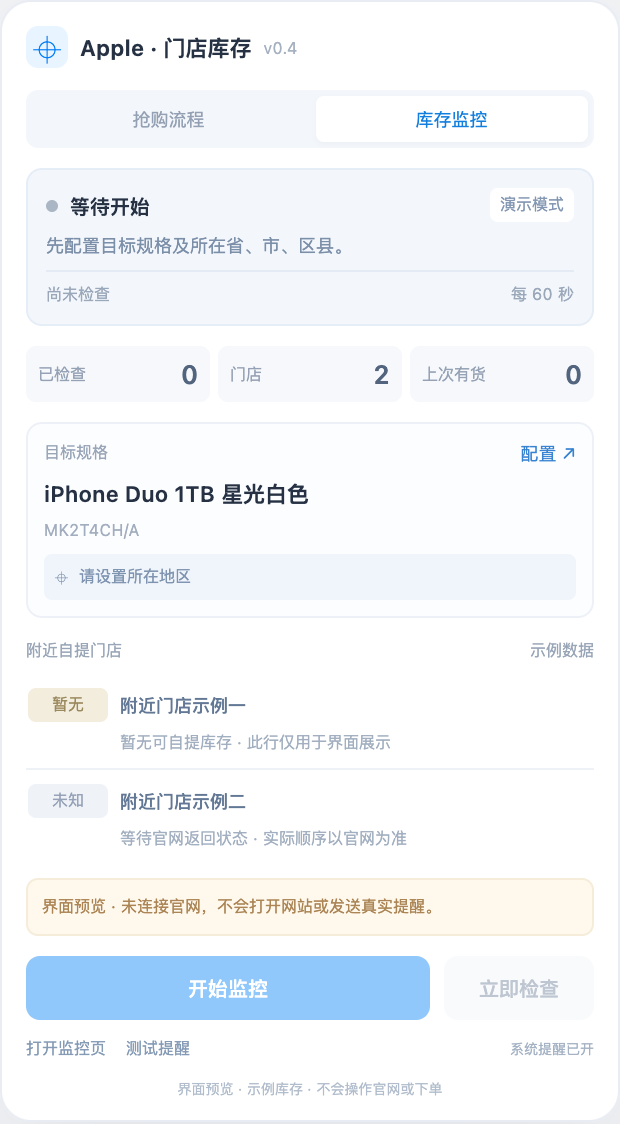
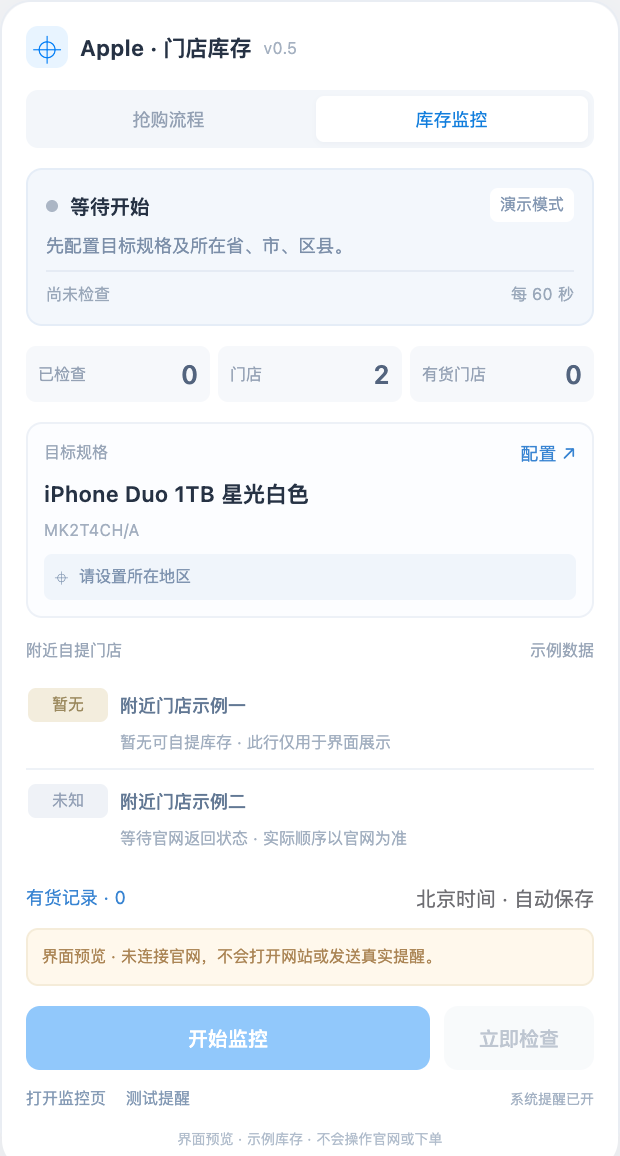
Save observed pickup stock arrival times with history and CSV export

diff --git a/server/public/style.css b/server/public/style.css
@@ -1,1 +1,8 @@
 :root{font-family:-apple-system,BlinkMacSystemFont,"Segoe UI","PingFang SC","Microsoft YaHei",sans-serif;font-size:13px;color:#263244;background:#f2f5f9;color-scheme:light;font-synthesis:none}*{box-sizing:border-box}body{margin:0;padding:24px 12px;min-width:280px}button,input,select{font:inherit}button{cursor:pointer}button:disabled{opacity:.45;cursor:default}button:focus-visible,input:focus-visible,select:focus-visible{outline:3px solid #95c9ff;outline-offset:2px}[hidden]{display:none!important}.shell{width:min(100%,380px);margin:auto;background:#fff;border:1px solid #e8edf5;border-radius:16px;padding:17px 16px 13px;box-shadow:0 12px 45px #233a5a0b}header,.brand,.status-line,.section-top,.next-line,.actions,.location-line,.push-status{display:flex;align-items:center}header,.section-top{justify-content:space-between}.brand{gap:7px}.brand strong{font-size:12px;font-weight:650}.brand-icon{display:grid;place-items:center;width:24px;height:24px;border-radius:7px;background:#e8f4ff;color:#0780f6;font-size:19px}.server-tag{padding:3px 5px;border-radius:4px;background:#f4f7fb;color:#9aabc0;font-size:8px}.text-button{border:0;background:none;padding:0;color:#3884d2;font-size:10px}.loading{color:#8da0b8;font-size:11px;text-align:center;padding:60px 10px}.login-heading{margin-top:31px}.eyebrow{font-size:8px;letter-spacing:1px;color:#97a9be}.login-heading h1{font-size:21px;font-weight:600;margin:9px 0}.login-heading p{font-size:11px;line-height:1.8;color:#8b9db3;margin:0 0 25px}.login-note{font-size:10px;line-height:1.9;color:#a6b3c4;margin:22px 0 8px}.status-card{margin-top:17px;padding:11px;border:1px solid #e5edf7;background:#f3f7fc;border-radius:9px}.status-line{gap:7px;font-size:11px}.status-dot{display:inline-block;width:6px;height:6px;flex-shrink:0;border-radius:50%;background:#abb6c5}.status-dot.running{background:#27ac72}.status-dot.available{background:#19a56d;box-shadow:0 0 0 3px #d9f0e4}.status-dot.paused{background:#d29b4e}.tag{margin-left:auto;padding:3px 5px;border-radius:4px;background:#fff;font-size:8px;color:#8397b2}.status-card p{font-size:10px;line-height:1.8;color:#7c8fa9;margin:6px 0;overflow-wrap:anywhere}.next-line{justify-content:space-between;gap:6px;padding-top:8px;border-top:1px solid #e5ebf4;color:#9aa8ba;font-size:9px}.metrics{display:grid;grid-template-columns:repeat(3,1fr);gap:5px;margin:12px 0}.metrics div{display:flex;align-items:center;gap:4px;background:#f6f8fb;padding:8px;border-radius:6px;font-size:9px;color:#95a2b5}.metrics strong{margin-left:auto;font-size:15px;color:#53647e;font-weight:600;font-variant-numeric:tabular-nums}.product{padding:10px;border:1px solid #edf1f7;border-radius:9px;background:#fcfdff}.section-top{font-size:9px;color:#99a6b8;margin-bottom:8px;gap:6px}.product h1{font-size:12px;font-weight:600;line-height:1.6;margin:0 0 4px;overflow-wrap:anywhere}.product p{font-size:9px;color:#a2aebf;margin:0}.location-line{gap:6px;color:#7f94b0;background:#f0f5fb;border-radius:4px;font-size:9px;line-height:1.8;padding:5px 6px;margin-top:8px;overflow-wrap:anywhere}.stores-section{margin-top:15px}#stores{list-style:none;padding:0;margin:0;max-height:300px;overflow-y:auto;scrollbar-width:thin}.store{padding:9px 1px;border-bottom:1px solid #eef2f7}.store:last-child{border-bottom:0}.store-top{display:flex;align-items:center;gap:7px}.availability{flex-shrink:0;font-size:9px;min-width:43px;text-align:center;color:#9b895e;background:#f3eddd;padding:3px 4px;border-radius:4px}.availability.available{background:#e5f4ec;color:#239769}.availability.unknown{background:#eff2f7;color:#95a2b7}.store-name{font-size:10px;color:#627894;font-weight:500;overflow-wrap:anywhere}.distance{margin-left:auto;font-size:9px;color:#a6b2c3;flex-shrink:0}.store-detail{font-size:9px;line-height:1.6;color:#a2afc0;margin:4px 0 0 50px;overflow-wrap:anywhere}.stale .store-name,.stale .availability{opacity:.65}.empty-stores{font-size:10px;color:#a9b4c3;text-align:center;line-height:1.9;padding:23px 10px;margin:0}.notice{font-size:9px;line-height:1.8;background:#fff8ec;border:1px solid #f5ecd9;border-radius:7px;color:#ab8555;padding:8px;margin-top:10px;overflow-wrap:anywhere}.actions{gap:8px;margin-top:13px}.button{border:0;border-radius:8px;padding:10px 13px;font-size:11px;font-weight:500}.primary{background:#0a84f7;color:#fff;flex:1}.primary:hover{background:#0074df}.secondary{background:#f0f3f7;color:#6f8199;min-width:86px}.push-status{gap:6px;margin-top:12px;color:#92a5bc;font-size:9px}.server-running{margin-left:auto;color:#b0bdcd;font-size:8px}.fineprint{font-size:8px;color:#b1bdcc;text-align:center;margin:12px 0 0;line-height:1.7}.server-note{margin-top:3px}dialog{position:fixed;inset:0;width:min(calc(100% - 24px),380px);height:fit-content;max-width:none;max-height:calc(100vh - 40px);border:1px solid #e8edf5;border-radius:14px;background:#fff;margin:auto;padding:20px 17px;overflow:auto;box-shadow:0 15px 65px #233a5a24}dialog::backdrop{background:#edf2f8dd}.dialog-heading{display:flex;justify-content:space-between;align-items:flex-start;margin-bottom:17px}.icon-button{border:0;width:24px;height:24px;border-radius:6px;background:#f4f6f9;color:#95a0af;font-size:18px;line-height:18px}h2{font-size:19px;font-weight:600;margin:7px 0 0}label{display:block;font-size:10px;color:#7185a0;margin-top:13px}input,select{display:block;width:100%;min-width:0;border:1px solid #e1e8f1;border-radius:7px;background:#fbfcfe;color:#3c506d;padding:9px;font-size:11px;margin-top:6px}input::placeholder{font-size:10px;color:#acbacb}.field-help{font-size:9px;color:#9ba9bd;line-height:1.8;margin:7px 0}.form-row{display:flex;gap:10px}.form-row label{width:50%}.checkbox{display:flex;gap:7px;align-items:flex-start;line-height:1.9}.checkbox input{width:14px;flex-shrink:0;margin:3px 0 0;accent-color:#0a84f7}.settings-note{padding:10px;background:#f3f7fc;border-radius:8px;font-size:9px;line-height:1.9;color:#8a9db5;margin-top:15px}.form-error{font-size:10px;color:#b56450;line-height:1.8}.wide{width:100%;margin-top:13px}@media(max-width:360px){body{padding:12px 8px}.shell{padding:14px 12px}.brand{gap:5px}.brand strong{font-size:11px}.server-tag{font-size:7px}.tag{font-size:7px}.metrics div{padding:7px;font-size:8px}}
+
+.history-entry{display:flex;align-items:center;justify-content:space-between;gap:8px;margin:10px 0 8px;font-size:10px;color:#6e6e73}
+#stock-history{width:calc(100% - 24px);max-width:430px;max-height:90vh;box-sizing:border-box;overflow:auto}
+.history-toolbar{display:flex;align-items:end;justify-content:space-between;gap:12px}.history-toolbar label{flex:1;margin:0}.history-toolbar button{flex-shrink:0;margin-bottom:9px}
+#history-hours{display:flex;flex-wrap:wrap;gap:5px}.hour-chip{font-size:11px;padding:5px 7px;background:#eaf3ff;color:#0068d1;border-radius:6px}
+#history-list{list-style:none;padding:0;margin:12px 0;max-height:310px;overflow:auto}#history-list li{padding:10px 0;border-bottom:1px solid #e5e5ea}#history-list strong{display:block;font-size:13px;margin:4px 0}
+.arrival-time{font-size:13px;font-variant-numeric:tabular-nums;font-weight:600;color:#087c49}.arrival-detail,.arrival-kind{margin:4px 0;font-size:11px;line-height:1.5;overflow-wrap:anywhere}.arrival-detail{color:#6e6e73}.arrival-kind{color:#087c49}

diff --git a/monitor.css b/monitor.css
@@ -1,1 +1,8 @@
 :root{font-family:-apple-system,BlinkMacSystemFont,"Segoe UI","PingFang SC","Microsoft YaHei",sans-serif;font-size:12px;color:#263244;background:#fff;color-scheme:light;font-synthesis:none}*{box-sizing:border-box}body{margin:0;width:310px;max-height:578px;overflow-y:auto}button,input,select{font:inherit}button{cursor:pointer}button:disabled{opacity:.45;cursor:default}button:focus-visible,a:focus-visible,input:focus-visible,select:focus-visible{outline:3px solid #95c9ff;outline-offset:2px}[hidden]{display:none!important}.panel{padding:12px 12px 9px;background:#fff}header,.brand,.status-line,.section-top,.next-line,.actions,.footer-links,.location-line{display:flex;align-items:center}header,.section-top{justify-content:space-between}.brand{gap:6px}.brand strong{font-size:11px;font-weight:650}.brand small{font-size:8px;color:#a5b1c1}.brand-icon{display:grid;place-items:center;width:21px;height:21px;border-radius:6px;background:#e8f4ff;color:#0780f6;font-size:17px}.icon-button{border:0;width:21px;height:21px;border-radius:6px;background:#f4f6f9;color:#95a0af;font-size:16px;line-height:18px}nav{display:flex;gap:5px;padding:3px;background:#f3f6fa;border-radius:6px;margin-top:11px}nav a,nav span{flex:1;text-align:center;text-decoration:none;padding:5px;font-size:9px;color:#94a1b4;border-radius:4px}nav .selected{background:#fff;box-shadow:0 1px 3px #34496a0a;color:#127edd}.status-card{margin-top:10px;padding:9px;border:1px solid #e5edf7;background:#f3f7fc;border-radius:8px}.status-line{gap:6px;font-size:10px}.status-dot{width:6px;height:6px;border-radius:50%;background:#abb6c5}.status-dot.running{background:#27ac72}.status-dot.available{background:#19a56d;box-shadow:0 0 0 3px #d9f0e4}.status-dot.paused{background:#d29b4e}.tag{margin-left:auto;padding:3px 5px;border-radius:4px;background:#fff;font-size:8px;color:#8397b2}.status-card p{font-size:9px;line-height:1.6;color:#7c8fa9;margin:5px 0;overflow-wrap:anywhere}.next-line{justify-content:space-between;gap:6px;padding-top:6px;border-top:1px solid #e5ebf4;color:#9aa8ba;font-size:8px}.metrics{display:grid;grid-template-columns:repeat(3,1fr);gap:4px;margin:10px 0}.metrics div{display:flex;align-items:center;gap:4px;background:#f6f8fb;padding:6px;border-radius:5px;font-size:8px;color:#95a2b5}.metrics strong{margin-left:auto;font-size:13px;color:#53647e;font-weight:600;font-variant-numeric:tabular-nums}.product{padding:8px;border:1px solid #edf1f7;border-radius:8px;background:#fcfdff}.section-top{font-size:8px;color:#99a6b8;margin-bottom:6px;gap:6px}.text-button{border:0;background:none;padding:0;color:#3884d2;font-size:9px}.product h1{font-size:11px;font-weight:600;line-height:1.5;margin:0 0 4px;overflow-wrap:anywhere}.product p{font-size:8px;color:#a2aebf;margin:0}.location-line{gap:5px;color:#7f94b0;background:#f0f5fb;border-radius:4px;font-size:8px;line-height:1.6;padding:5px;margin-top:7px;overflow-wrap:anywhere}.stores-section{margin-top:11px}#stores{list-style:none;padding:0;margin:0;max-height:171px;overflow-y:auto;scrollbar-width:thin}.store{padding:7px 1px;border-bottom:1px solid #eef2f7}.store:last-child{border-bottom:0}.store-top{display:flex;align-items:center;gap:6px}.availability{flex-shrink:0;font-size:8px;min-width:40px;text-align:center;color:#9b895e;background:#f3eddd;padding:3px 4px;border-radius:4px}.availability.available{background:#e5f4ec;color:#239769}.availability.unknown{background:#eff2f7;color:#95a2b7}.store-name{font-size:9px;color:#627894;font-weight:500;overflow-wrap:anywhere}.distance{margin-left:auto;font-size:8px;color:#a6b2c3;flex-shrink:0}.store-detail{font-size:8px;line-height:1.5;color:#a2afc0;margin:4px 0 0 46px;overflow-wrap:anywhere}.stale .store-name,.stale .availability{opacity:.65}.empty-stores{font-size:9px;color:#a9b4c3;text-align:center;line-height:1.8;padding:17px 10px;margin:0}.notice{font-size:8px;line-height:1.7;background:#fff8ec;border:1px solid #f5ecd9;border-radius:6px;color:#ab8555;padding:7px;margin-top:7px;overflow-wrap:anywhere}.actions{gap:7px;margin-top:10px}.button{border:0;border-radius:7px;padding:9px 12px;font-size:10px;font-weight:500}.primary{background:#0a84f7;color:#fff;flex:1}.primary:hover{background:#0074df}.secondary{background:#f0f3f7;color:#6f8199;min-width:75px}.footer-links{gap:10px;margin-top:9px;color:#a4b2c4;font-size:8px}.footer-links button{padding:0;border:0;background:none;color:#849ab5;font-size:8px}.footer-links span{margin-left:auto;font-size:7px}.fineprint{font-size:7px;color:#b1bdcc;text-align:center;margin:9px 0 0;line-height:1.7}dialog{position:fixed;inset:0;width:310px;height:100%;max-width:none;max-height:578px;border:0;background:#fff;margin:0;padding:17px 14px;overflow:auto}dialog::backdrop{background:#fff}.dialog-heading{display:flex;justify-content:space-between;align-items:flex-start;margin-bottom:16px}.eyebrow{font-size:8px;letter-spacing:1px;color:#97a9be}h2{font-size:17px;font-weight:600;margin:6px 0 0}label{display:block;font-size:9px;color:#7185a0;margin-top:11px}input,select{display:block;width:100%;min-width:0;border:1px solid #e1e8f1;border-radius:6px;background:#fbfcfe;color:#3c506d;padding:8px;font-size:10px;margin-top:6px}input::placeholder{font-size:9px;color:#acbacb}.field-help{font-size:8px;color:#9ba9bd;line-height:1.7;margin:6px 0}.form-row{display:flex;gap:9px}.form-row label{width:50%}.checkbox{display:flex;gap:6px;align-items:flex-start;line-height:1.8}.checkbox input{width:13px;flex-shrink:0;margin:2px 0 0;accent-color:#0a84f7}.settings-note{padding:9px;background:#f3f7fc;border-radius:7px;font-size:8px;line-height:1.8;color:#8a9db5;margin-top:14px}.form-error{font-size:9px;color:#b56450;line-height:1.8}.wide{width:100%;margin-top:10px}.preview-mode{background:#f3f4f6;min-height:100%}.preview-mode body{margin:36px auto;width:310px;border:1px solid #e9edf3;border-radius:15px;box-shadow:0 14px 55px #1d335319}.preview-mode .panel{border-radius:15px}.preview-mode dialog{margin:20px auto;max-height:calc(100vh - 40px);height:auto;border-radius:14px}.embedded{width:100%}.embedded dialog{width:100%}
+
+.history-entry{display:flex;align-items:center;justify-content:space-between;gap:8px;margin:10px 0 8px;font-size:10px;color:#6e6e73}
+#stock-history{width:calc(100% - 24px);max-width:430px;max-height:90vh;box-sizing:border-box;overflow:auto}
+.history-toolbar{display:flex;align-items:end;justify-content:space-between;gap:12px}.history-toolbar label{flex:1;margin:0}.history-toolbar button{flex-shrink:0;margin-bottom:9px}
+#history-hours{display:flex;flex-wrap:wrap;gap:5px}.hour-chip{font-size:11px;padding:5px 7px;background:#eaf3ff;color:#0068d1;border-radius:6px}
+#history-list{list-style:none;padding:0;margin:12px 0;max-height:310px;overflow:auto}#history-list li{padding:10px 0;border-bottom:1px solid #e5e5ea}#history-list strong{display:block;font-size:13px;margin:4px 0}
+.arrival-time{font-size:13px;font-variant-numeric:tabular-nums;font-weight:600;color:#087c49}.arrival-detail,.arrival-kind{margin:4px 0;font-size:11px;line-height:1.5;overflow-wrap:anywhere}.arrival-detail{color:#6e6e73}.arrival-kind{color:#087c49}

diff --git a/monitor.html b/monitor.html
@@ -1,14 +1,15 @@
 <!doctype html>
 <html lang="zh-CN">
-<head><meta charset="utf-8"><meta name="viewport" content="width=device-width,initial-scale=1"><title>Apple · 门店库存</title><link rel="stylesheet" href="monitor.css"><script src="monitor.js" defer></script></head>
+<head><meta charset="utf-8"><meta name="viewport" content="width=device-width,initial-scale=1"><title>Apple · 门店库存</title><link rel="stylesheet" href="monitor.css"><script src="stock-history-view.js" defer></script><script src="monitor.js" defer></script></head>
 <body>
   <main class="panel" aria-label="Apple 门店库存监控">
-    <header><div class="brand"><span class="brand-icon" aria-hidden="true">⌖</span><strong>Apple · 门店库存</strong><small>v0.4</small></div><button id="collapse" class="icon-button" title="收起" aria-label="收起面板">−</button></header>
+    <header><div class="brand"><span class="brand-icon" aria-hidden="true">⌖</span><strong>Apple · 门店库存</strong><small>v0.5</small></div><button id="collapse" class="icon-button" title="收起" aria-label="收起面板">−</button></header>
     <nav aria-label="功能切换"><a id="purchase-link" href="panel.html">抢购流程</a><span class="selected" aria-current="page">库存监控</span></nav>
     <section class="status-card" aria-live="polite"><div class="status-line"><span id="status-dot" class="status-dot"></span><strong id="status-title">等待设置</strong><span id="status-tag" class="tag">页面读取</span></div><p id="status-description">填写目标规格与所在地区。</p><div class="next-line"><span id="last-check">尚未检查</span><span id="next-check">每 60 秒</span></div></section>
-    <section class="metrics" aria-label="检查统计"><div><span>已检查</span><strong id="checks">0</strong></div><div><span>门店</span><strong id="store-count">0</strong></div><div><span>上次有货</span><strong id="available-count">0</strong></div></section>
+    <section class="metrics" aria-label="检查统计"><div><span>已检查</span><strong id="checks">0</strong></div><div><span>门店</span><strong id="store-count">0</strong></div><div><span>有货门店</span><strong id="available-count">0</strong></div></section>
     <section class="product"><div class="section-top"><span>目标规格</span><button id="configure" class="text-button">配置 ↗</button></div><h1 id="product-name">iPhone Duo 1TB 星光白色</h1><p id="product-meta">MK2T4CH/A</p><div class="location-line"><span aria-hidden="true">⌖</span><span id="address-summary">请设置所在地区</span></div></section>
     <section class="stores-section" aria-label="附近自提门店"><div class="section-top"><span>附近自提门店</span><span id="freshness">等待首次检查</span></div><ol id="stores"></ol><p id="empty-stores" class="empty-stores">设置后开始监控，显示官网返回的附近门店。</p></section>
+    <div class="history-entry"><button id="show-history" class="text-button" disabled>有货记录 · 0</button><span>北京时间 · 自动保存</span></div>
     <div id="notice" class="notice" role="status" hidden></div>
     <footer><div class="actions"><button id="toggle" class="button primary">开始监控</button><button id="check-now" class="button secondary">立即检查</button></div><div class="footer-links"><button id="open-monitor">打开监控页</button><button id="test-notification">测试提醒</button><span id="notification-label">系统提醒已开</span></div><p id="fineprint" class="fineprint">按官网附近门店顺序展示 · 仅提醒，不加购或下单</p></footer>
   </main>
@@ -24,4 +25,13 @@
     <p class="settings-note">只读取官网页面的自提状态。页面异常或结果过期时显示“未知 / 上次结果”；需要验证码或手动选择地区时会暂停提示。浏览器关闭期间不会检查。</p>
     <p id="settings-error" class="form-error" role="alert" hidden></p><button id="save-settings" class="button primary wide" type="submit">保存配置</button>
   </form></dialog>
+
+  <dialog id="stock-history" aria-labelledby="history-title">
+    <div class="dialog-heading"><div><span class="eyebrow">STOCK HISTORY</span><h2 id="history-title">有货记录</h2></div><button id="close-history" class="icon-button" aria-label="关闭有货记录">×</button></div>
+    <div class="history-toolbar"><label>查看范围<select id="history-scope"><option value="current">当前商品与地区</option><option value="all">全部历史配置</option></select></label><button id="export-history" class="text-button">导出 CSV</button></div>
+    <p id="history-summary" class="field-help"></p><div id="history-hours" aria-label="按北京时间小时统计门店有货次数"></div>
+    <p class="field-help">小时统计按门店计次，同一轮多店有货分别计数，未按监控时长校正。检测时间并非官网准确放货时间；检查间隔、暂停和失败会影响统计。</p>
+    <ol id="history-list"></ol><p id="history-since" class="field-help"></p>
+    <p class="field-help">保留最近 500 条记录。持续有货不重复记录；确认无货后再次有货另记一条。重启、保存配置和关闭提醒不清除记录。长期分析请定期导出。</p>
+  </dialog>
 </body></html>

diff --git a/server/public/index.html b/server/public/index.html
@@ -1,6 +1,6 @@
 <!doctype html>
 <html lang="zh-CN">
-<head><meta charset="utf-8"><meta name="viewport" content="width=device-width,initial-scale=1"><title>Apple · 门店库存监控</title><link rel="stylesheet" href="/style.css"><script src="/app.js" defer></script></head>
+<head><meta charset="utf-8"><meta name="viewport" content="width=device-width,initial-scale=1"><title>Apple · 门店库存监控</title><link rel="stylesheet" href="/style.css"><script src="/stock-history-view.js" defer></script><script src="/app.js" defer></script></head>
 <body>
   <main class="shell">
     <header><div class="brand"><span class="brand-icon" aria-hidden="true">⌖</span><strong>Apple · 门店库存</strong><span class="server-tag">服务器版</span></div><button id="logout" class="text-button" hidden>退出</button></header>
@@ -12,10 +12,11 @@
     </section>
     <div id="dashboard" hidden>
       <section class="status-card" aria-live="polite"><div class="status-line"><span id="status-dot" class="status-dot"></span><strong id="status-title">等待设置</strong><span id="status-tag" class="tag">官网页面读取</span></div><p id="status-description">正在加载服务器状态。</p><div class="next-line"><span id="last-check">尚未检查</span><span id="next-check">等待开始</span></div></section>
-      <section class="metrics" aria-label="检查统计"><div><span>已检查</span><strong id="checks">0</strong></div><div><span>门店</span><strong id="store-count">0</strong></div><div><span>上次有货</span><strong id="available-count">0</strong></div></section>
+      <section class="metrics" aria-label="检查统计"><div><span>已检查</span><strong id="checks">0</strong></div><div><span>门店</span><strong id="store-count">0</strong></div><div><span>有货门店</span><strong id="available-count">0</strong></div></section>
       <section class="product"><div class="section-top"><span>目标规格</span><button id="configure" class="text-button">配置 ↗</button></div><h1 id="product-name">等待配置</h1><p id="product-meta"></p><div class="location-line"><span aria-hidden="true">⌖</span><span id="address-summary">请设置所在地区</span></div></section>
       <section class="stores-section" aria-label="附近自提门店"><div class="section-top"><span>附近自提门店</span><span id="freshness">等待首次检查</span></div><ol id="stores"></ol><p id="empty-stores" class="empty-stores">配置目标与地区后，开始读取官网附近门店。</p></section>
-      <div id="notice" class="notice" role="status" hidden></div>
+      <div class="history-entry"><button id="show-history" class="text-button" disabled>有货记录 · 0</button><span>北京时间 · 自动保存</span></div>
+    <div id="notice" class="notice" role="status" hidden></div>
       <footer><div class="actions"><button id="toggle" class="button primary">开始监控</button><button id="check-now" class="button secondary">立即检查</button></div><div class="push-status"><span id="notification-dot" class="status-dot"></span><span id="notification-label">未配置推送</span><span class="server-running">服务器持续运行</span></div><p class="fineprint">按官网附近门店顺序展示 · 仅提醒，不加购或下单</p><p class="fineprint server-note">关闭本页不影响监控；服务器停止期间不会检查。</p></footer>
     </div>
   </main>
@@ -32,4 +33,13 @@
     <p class="settings-note">保存配置会暂停当前监控。库存状态可能随时变化；页面异常或结果过期时会标记上次结果。</p>
     <p id="settings-error" class="form-error" role="alert" hidden></p><button id="save-settings" class="button primary wide" type="submit">保存配置</button>
   </form></dialog>
+
+  <dialog id="stock-history" aria-labelledby="history-title">
+    <div class="dialog-heading"><div><span class="eyebrow">STOCK HISTORY</span><h2 id="history-title">有货记录</h2></div><button id="close-history" class="icon-button" aria-label="关闭有货记录">×</button></div>
+    <div class="history-toolbar"><label>查看范围<select id="history-scope"><option value="current">当前商品与地区</option><option value="all">全部历史配置</option></select></label><button id="export-history" class="text-button">导出 CSV</button></div>
+    <p id="history-summary" class="field-help"></p><div id="history-hours" aria-label="按北京时间小时统计门店有货次数"></div>
+    <p class="field-help">小时统计按门店计次，同一轮多店有货分别计数，未按监控时长校正。检测时间并非官网准确放货时间；检查间隔、暂停和失败会影响统计。</p>
+    <ol id="history-list"></ol><p id="history-since" class="field-help"></p>
+    <p class="field-help">保留最近 500 条记录。持续有货不重复记录；确认无货后再次有货另记一条。重启、保存配置和关闭提醒不清除记录。长期分析请定期导出。</p>
+  </dialog>
 </body></html>

diff --git a/stock-history-view.js b/stock-history-view.js
@@ -1,0 +1,51 @@
+// Shared by the extension panel and the authenticated server dashboard.
+(() => {
+  const $ = id => document.getElementById(id);
+  const date = new Intl.DateTimeFormat('sv-SE', {timeZone: 'Asia/Shanghai', year: 'numeric', month: '2-digit', day: '2-digit', hour: '2-digit', minute: '2-digit', second: '2-digit', hourCycle: 'h23'});
+  const hour = new Intl.DateTimeFormat('en-GB', {timeZone: 'Asia/Shanghai', hour: '2-digit', hourCycle: 'h23'});
+  const time = at => date.format(new Date(at));
+  let state = null;
+  function rows() {
+    const values = state?.stockHistory?.events || [], config = state?.config;
+    return values.filter(row => Number.isFinite(row.observedAt) && row.observedAt > 0 &&
+      ($('history-scope').value === 'all' || row.partNumber === config?.partNumber && row.location.trim().toLowerCase() === config?.address.trim().toLowerCase()))
+      .slice().sort((a, b) => b.observedAt - a.observedAt);
+  }
+  function node(tag, value, className) {const element = document.createElement(tag); element.textContent = value; if (className) element.className = className; return element;}
+  function render(next) {
+    state = next;
+    $('show-history').disabled = !state;
+    const current = (state?.stockHistory?.events || []).filter(row => row.partNumber === state.config.partNumber && row.location.trim().toLowerCase() === state.config.address.trim().toLowerCase());
+    $('show-history').textContent = `有货记录 · ${current.length}`;
+    if (!state) {if ($('stock-history').open) $('stock-history').close(); $('history-list').replaceChildren(); return;}
+    if (!$('stock-history').open) return;
+    const events = rows(), counts = new Map();
+    for (const row of events) {const h = hour.format(new Date(row.observedAt)); counts.set(h, (counts.get(h) || 0) + 1);}
+    $('history-hours').replaceChildren(...[...counts].sort(([a], [b]) => a.localeCompare(b)).map(([h, count]) => node('span', `${h} 时 · ${count} 店次`, 'hour-chip')));
+    $('history-summary').textContent = events.length ? `共 ${events.length} 条门店有货记录 · 北京时间` : '尚无有货记录。监控暂停或检查失败期间不会产生记录。';
+    $('history-since').textContent = state.stockHistory?.startedAt ? `记录始于 ${time(state.stockHistory.startedAt)}，此前历史无法补回。` : '升级后首次检查开始记录，此前历史无法补回。';
+    $('export-history').disabled = !events.length;
+    $('history-list').replaceChildren(...events.map(row => {
+      const item = document.createElement('li');
+      item.append(node('time', time(row.observedAt), 'arrival-time'), node('strong', row.storeName),
+        node('p', `${row.productName || row.partNumber} · ${row.partNumber}`, 'arrival-detail'),
+        node('p', `${row.location}${row.distanceText ? ' · ' + row.distanceText : ''}`, 'arrival-detail'),
+        node('p', row.kind === 'restocked' ? '无货后再次检测到有货' : '首次检测到有货', 'arrival-kind'));
+      if (row.lastUnavailableAt) item.append(node('p', `上次确认无货：${time(row.lastUnavailableAt)}`, 'arrival-detail'));
+      if (row.pickupText) item.append(node('p', row.pickupText, 'arrival-detail'));
+      return item;
+    }));
+  }
+  $('show-history').addEventListener('click', () => {if (state) {$('stock-history').showModal(); render(state);}});
+  $('close-history').addEventListener('click', () => $('stock-history').close());
+  $('history-scope').addEventListener('change', () => render(state));
+  $('export-history').addEventListener('click', () => {
+    const events = rows(); if (!events.length) return;
+    const cell = value => {let s = String(value ?? ''); if (/^[=+\-@\t\r]/.test(s)) s = "'" + s; return '"' + s.replace(/"/g, '""') + '"';};
+    const data = [['首次检测到有货（北京时间）', '记录类型', '商品配置', '商品编号', '监控地区', '门店', '距离', '上次确认无货（北京时间）', '取货信息'],
+      ...events.map(row => [time(row.observedAt), row.kind === 'restocked' ? '无货后再次有货' : '首次观测', row.productName, row.partNumber, row.location, row.storeName, row.distanceText, row.lastUnavailableAt ? time(row.lastUnavailableAt) : '', row.pickupText])];
+    const url = URL.createObjectURL(new Blob(['\ufeff' + data.map(row => row.map(cell).join(',')).join('\r\n')], {type: 'text/csv;charset=utf-8'}));
+    const link = document.createElement('a'); link.href = url; link.download = 'apple-pickup-stock-history.csv'; link.click(); setTimeout(() => URL.revokeObjectURL(url), 1000);
+  });
+  window.StockHistoryView = {render};
+})();

diff --git a/server/public/app.js b/server/public/app.js
@@ -4,7 +4,7 @@ const LABELS={idle:'等待开始',checking:'正在检查官网',watching:'正在
 let state=null,authenticated=false,busy=false,polling=false,operationError='',connectionError='',viewRevision=0;
 const setText=(id,value)=>{$(id).textContent=String(value??'');};
 function showLogin(message=''){
-  viewRevision++;authenticated=false;state=null;operationError='';connectionError='';
+  viewRevision++;authenticated=false;state=null;StockHistoryView.render(null);operationError='';connectionError='';
   $('loading').hidden=true;$('dashboard').hidden=true;$('logout').hidden=true;$('login-view').hidden=false;
   if($('settings').open)$('settings').close();
   setText('login-error',message);$('login-error').hidden=!message;syncControls();
@@ -39,10 +39,10 @@ function updateClock(){
   $('status-dot').className=`status-dot ${connectionError?'paused':state.status==='available'&&!old?'available':state.running?'running':['paused','error'].includes(state.status)?'paused':''}`;
 }
 function render(next){
-  state=next;const config=state.config;const stores=Array.isArray(state.stores)?state.stores.slice(0,config.maxStores):[];
+  state=next;StockHistoryView.render(state);const config=state.config;const stores=Array.isArray(state.stores)?state.stores.slice(0,config.maxStores):[];
   const firstAvailable=stores.find(store=>store.availability==='available');
   setText('status-description',state.error||(state.status==='checking'?'服务器正在读取官网自提状态。':!config.address?'先配置目标规格与所在省、市、区县。':state.status==='available'&&firstAvailable?`官网列表首家可自提：${firstAvailable.name}。请到官网核对。`:state.running?'服务器会按设置间隔持续检查附近门店。':'配置已保存在服务器，开始后持续检查官网页面。'));
-  setText('last-check',state.lastCheckAt?`检查于 ${new Date(state.lastCheckAt).toLocaleTimeString('zh-CN',{hour12:false})}`:'尚未检查');
+  setText('last-check',state.lastCheckAt?`检查于 ${new Date(state.lastCheckAt).toLocaleTimeString('zh-CN',{hour12:false,timeZone:'Asia/Shanghai'})}`:'尚未检查');
   setText('checks',state.checks||0);setText('store-count',stores.length);setText('available-count',stores.filter(store=>store.availability==='available').length);
   setText('product-name',config.productName||config.partNumber);setText('product-meta',config.partNumber);setText('address-summary',config.address||'请设置所在地区');
   const push=Boolean(state.notificationsEnabled&&config.notifyEnabled);

diff --git a/monitor.js b/monitor.js
@@ -30,12 +30,12 @@ function updateControls(){
 }
 function showNotice(){const message=operationError||state?.error||state?.notice||'';setText('notice',message);$('notice').hidden=!message;}
 function render(next){
-  state=next;const config=state.config;const stores=Array.isArray(state.stores)?state.stores.slice(0,config.maxStores):[];const stale=isStale();const nearest=stores.find(store=>store.availability==='available');
+  state=next;StockHistoryView.render(state);const config=state.config;const stores=Array.isArray(state.stores)?state.stores.slice(0,config.maxStores):[];const stale=isStale();const nearest=stores.find(store=>store.availability==='available');
   setText('status-title',stale&&state.status==='available'?'上次发现可自提':LABELS[state.status]||'等待页面反馈');
   setText('status-tag',!extension?'演示模式':'页面读取');
   $('status-dot').className=`status-dot ${state.status==='available'&&!stale?'available':state.running?'running':['paused','error'].includes(state.status)?'paused':''}`;
   setText('status-description',state.error||(state.status==='checking'?'正在读取官网自提门店状态。':!config.address?'先配置目标规格及所在省、市、区县。':state.status==='available'&&nearest?`${stale?'上次结果中首家可自提':'最近可自提（官网排序）'}：${nearest.name}${nearest.distanceText?' · '+nearest.distanceText:''}。请到官网确认。`:state.running?'按设置间隔检查附近门店，发现可自提时提醒。':'配置保存在本机，开始后打开专用官网监控页。'));
-  setText('last-check',state.lastCheckAt?`检查于 ${new Date(state.lastCheckAt).toLocaleTimeString('zh-CN',{hour12:false})}`:'尚未检查');
+  setText('last-check',state.lastCheckAt?`检查于 ${new Date(state.lastCheckAt).toLocaleTimeString('zh-CN',{hour12:false,timeZone:'Asia/Shanghai'})}`:'尚未检查');
   setText('checks',state.checks||0);setText('store-count',stores.length);setText('available-count',stores.filter(store=>store.availability==='available').length);
   setText('product-name',config.productName||config.partNumber);setText('product-meta',config.partNumber);setText('address-summary',config.address||'请设置所在地区');
   setText('notification-label',config.notifyEnabled?'系统提醒已开':'系统提醒已关');

diff --git a/panel.html b/panel.html
@@ -3,7 +3,7 @@
 <head><meta charset="utf-8"><meta name="viewport" content="width=device-width,initial-scale=1"><title>Apple · 抢购助手</title><link rel="stylesheet" href="panel.css"><script src="panel.js" defer></script></head>
 <body>
   <main class="panel" aria-label="Apple 抢购助手">
-    <header><div class="brand"><span class="bag-icon" aria-hidden="true">↗</span><strong>Apple · 抢购助手</strong><small>v0.4</small></div><button class="icon-button" id="collapse" title="收起" aria-label="收起面板">−</button></header>
+    <header><div class="brand"><span class="bag-icon" aria-hidden="true">↗</span><strong>Apple · 抢购助手</strong><small>v0.5</small></div><button class="icon-button" id="collapse" title="收起" aria-label="收起面板">−</button></header>
     <nav class="mode-nav" aria-label="助手模式"><a href="panel.html" aria-current="page">抢购流程</a><a href="monitor.html" id="pickup-mode">门店库存</a></nav>
     <section class="status-card" aria-live="polite"><div class="status-line"><span id="status-dot" class="status-dot"></span><strong id="status-title">准备就绪</strong><span id="status-tag" class="tag">页面点击模式</span></div><p id="status-description">选好规格，准备开始。</p><div class="next-line"><span id="last-check">尚未检查页面</span><span id="next-check">等待开始</span></div></section>
     <section class="metrics" aria-label="执行统计"><div><span>页面检查</span><strong id="scans">0</strong></div><div><span>已点按钮</span><strong id="clicks">0</strong></div><div><span>入口刷新</span><strong id="refreshes">0</strong></div></section>

diff --git a/server/README.md b/server/README.md
@@ -4,6 +4,14 @@
 
 此服务只监控官网自提库存；代码不执行购物袋、游客结账、订单提交或付款流程，不直接调用库存接口。
 
+## 有货记录
+
+管理页点击「有货记录」可查看每家店首次检测到有货、以及无货后再次有货的北京时间，含商品、地区、门店和上次确认无货的时间；支持按小时汇总、当前目标 / 全部历史配置筛选及 CSV 导出。
+
+记录保存在数据目录的 `state.json`，独立于推送渠道，重启、暂停和修改配置不会清除。请保留数据卷并定期导出，最多保留最近 500 条有货事件及 500 个目标/地区/门店组合的去重基线。超过基线保留范围的组合再次出现时按首次观测记录。持续有货不重复记录，检查失败、门店缺失和未知状态不算无货。旧版没有保存过的有货时间无法补回。
+
+时间为检测时间，并非准确放货时间；小时统计按门店计次，未按监控覆盖时长校正，只能作为参考。服务器停机、验证暂停或官网异常期间可能错过库存。服务器与本机扩展分别保存历史，不自动同步。
+
 ## Docker 部署
 
 需要一台能访问苹果中国官网的 Linux 服务器，以及 Docker Engine / Compose。部署前先确认该服务器能正常打开官网商品页；服务器出口也可能遇到限流或验证码。
